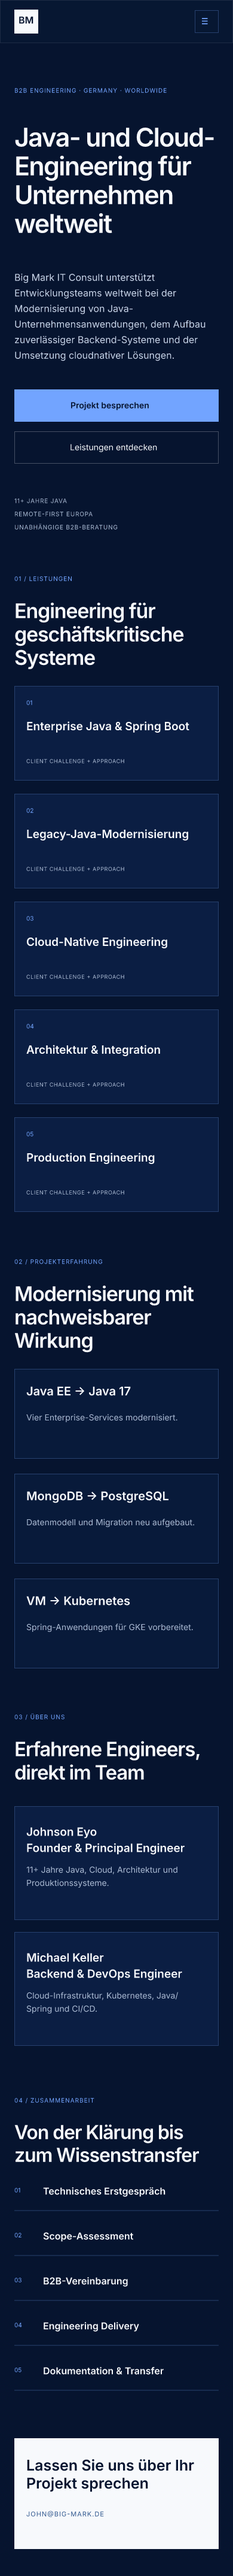
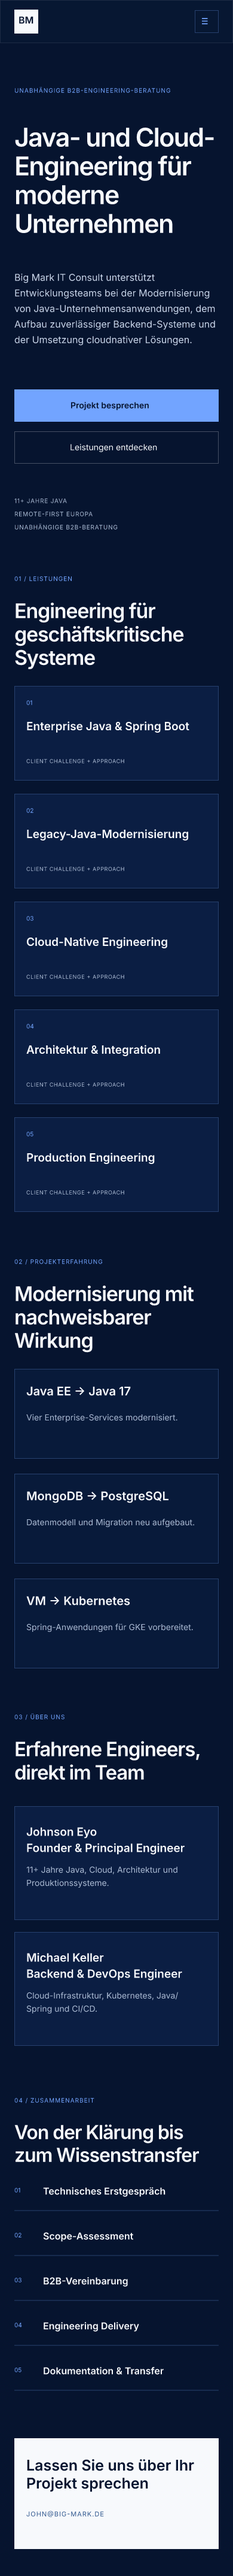
fix: simplify global consultancy positioning

Changed region(s): [[0.0615, 0.0623, 0.8308, 0.1558]]

diff --git a/src/content.ts b/src/content.ts
@@ -22,7 +22,7 @@ const projects = {
 export const content = {
   de: {
     nav: { services: 'Leistungen', projects: 'Projekte', about: 'Über uns', engagement: 'Zusammenarbeit', contact: 'Kontakt' },
-    hero: { eyebrow: 'Unabhängige B2B-Engineering-Beratung · Deutschland · Weltweit verfügbar', title: 'Java- und Cloud-Engineering für Unternehmen weltweit', text: 'Big Mark IT Consult unterstützt Entwicklungsteams weltweit bei der Modernisierung von Java-Unternehmensanwendungen, dem Aufbau zuverlässiger Backend-Systeme und der Umsetzung cloudnativer Lösungen.', primary: 'Projekt besprechen', secondary: 'Leistungen entdecken' },
+    hero: { eyebrow: 'Unabhängige B2B-Engineering-Beratung', title: 'Java- und Cloud-Engineering für moderne Unternehmen', text: 'Big Mark IT Consult unterstützt Entwicklungsteams bei der Modernisierung von Java-Unternehmensanwendungen, dem Aufbau zuverlässiger Backend-Systeme und der Umsetzung cloudnativer Lösungen.', primary: 'Projekt besprechen', secondary: 'Leistungen entdecken' },
     servicesTitle: 'Engineering für geschäftskritische Systeme', services: [
       ['Enterprise Java & Spring Boot Engineering', 'Wenn Backend-Systeme zuverlässig skalieren und sich sauber integrieren müssen.', 'Moderne Java- und Spring-Boot-Services, REST APIs, Kafka, Microservices und Enterprise-Integrationen.'],
       ['Legacy-Java-Modernisierung', 'Wenn Java EE, Monolithen oder technische Schulden die Delivery verlangsamen.', 'Schrittweise Migration, Refactoring und technische Erneuerung ohne unnötigen Big Bang.'],
@@ -39,7 +39,7 @@ export const content = {
   },
   en: {
     nav: { services: 'Services', projects: 'Projects', about: 'About', engagement: 'Engagement', contact: 'Contact' },
-    hero: { eyebrow: 'Independent B2B engineering consultancy · Germany · Available worldwide', title: 'Senior Java & Cloud Engineering for Global Businesses', text: 'Big Mark IT Consult helps engineering teams worldwide build reliable Java backend systems, modernize enterprise applications, and deliver cloud-native solutions through flexible B2B engagements.', primary: 'Discuss Your Project', secondary: 'Explore Our Services' },
+    hero: { eyebrow: 'Independent B2B Engineering Consultancy', title: 'Senior Java & Cloud Engineering for Modern Businesses', text: 'Big Mark IT Consult helps engineering teams build reliable Java backend systems, modernize enterprise applications, and deliver cloud-native solutions through flexible B2B engagements.', primary: 'Discuss Your Project', secondary: 'Explore Our Services' },
     servicesTitle: 'Engineering for business-critical systems', services: [
       ['Enterprise Java & Spring Boot Engineering', 'When backend systems must scale reliably and integrate cleanly.', 'Modern Java and Spring Boot services, REST APIs, Kafka, microservices and enterprise integrations.'],
       ['Legacy Java Modernization', 'When Java EE, monoliths or technical debt slow delivery.', 'Incremental migration, refactoring and technical renewal without an unnecessary big bang.'],

diff --git a/src/react/App.tsx b/src/react/App.tsx
@@ -27,8 +27,8 @@ function Meta({ locale, title, description }: { locale: Locale; title: string; d
     if (!structured) { structured = document.createElement('script'); structured.type = 'application/ld+json'; structured.dataset.organizationSchema = ''; document.head.append(structured); }
     structured.text = JSON.stringify({ '@context': 'https://schema.org', '@type': 'ProfessionalService', name: 'BIG-MARK IT Consult', url: 'https://big-mark.de', email: 'john@big-mark.de', areaServed: 'Worldwide', founder: { '@type': 'Person', name: 'Johnson Eyo' }, serviceType: ['Java Engineering', 'Cloud Engineering', 'Software Architecture', 'Application Modernization'] });
     document.querySelectorAll('p').forEach((element) => {
-      if (element.textContent === 'Germany · Remote-first Europe') element.textContent = 'Germany · Remote-first worldwide';
-      if (element.textContent?.includes('REMOTE-FIRST EUROPE')) element.textContent = element.textContent.replace('REMOTE-FIRST EUROPE', 'REMOTE-FIRST WORLDWIDE');
+      if (element.textContent === 'Germany · Remote-first Europe') element.textContent = 'Germany · Remote-first';
+      if (element.textContent?.includes('REMOTE-FIRST EUROPE')) element.textContent = element.textContent.replace('REMOTE-FIRST EUROPE', 'REMOTE-FIRST COLLABORATION');
     });
   }, [locale, title, description, pathname]);
   return null;
